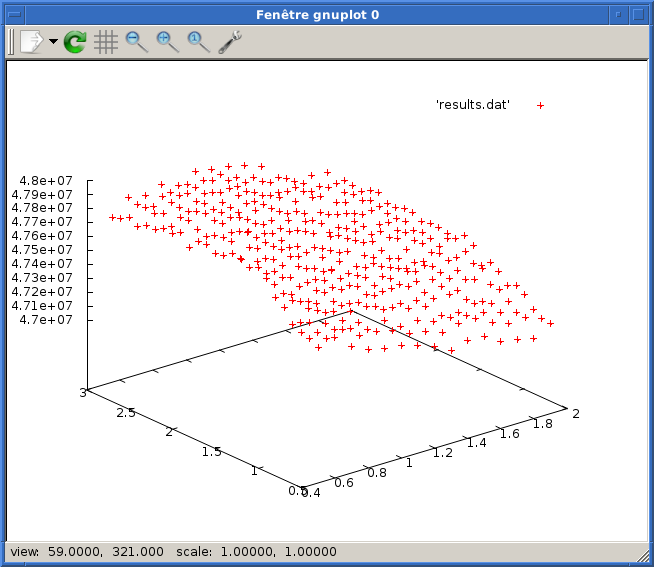
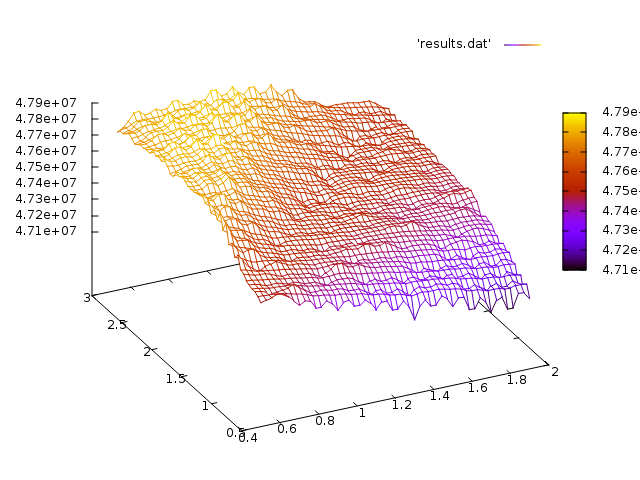
Improved gnuplot support

diff --git a/README.md b/README.md
@@ -17,8 +17,10 @@ Results
 
 Target *search* scans evaluation function constants for best results. It outputs a file *results.dat* in *build* directory that you can open in *gnuplot*. To display data file, launch *gnuplot* and type following commands :
 
-```
-splot 'results.dat'
+```gnuplot
+set dgrid3d 50,50 qnorm 2
+set hidden3d
+splot 'results.dat' with lines palette
 ```
 
 This shoud open a window and display something like:
